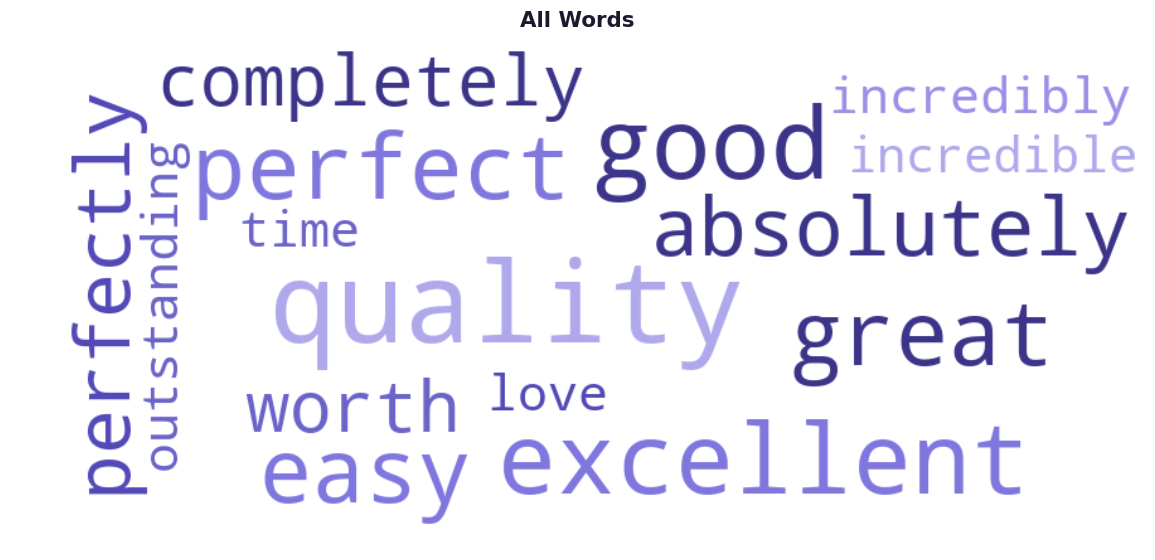
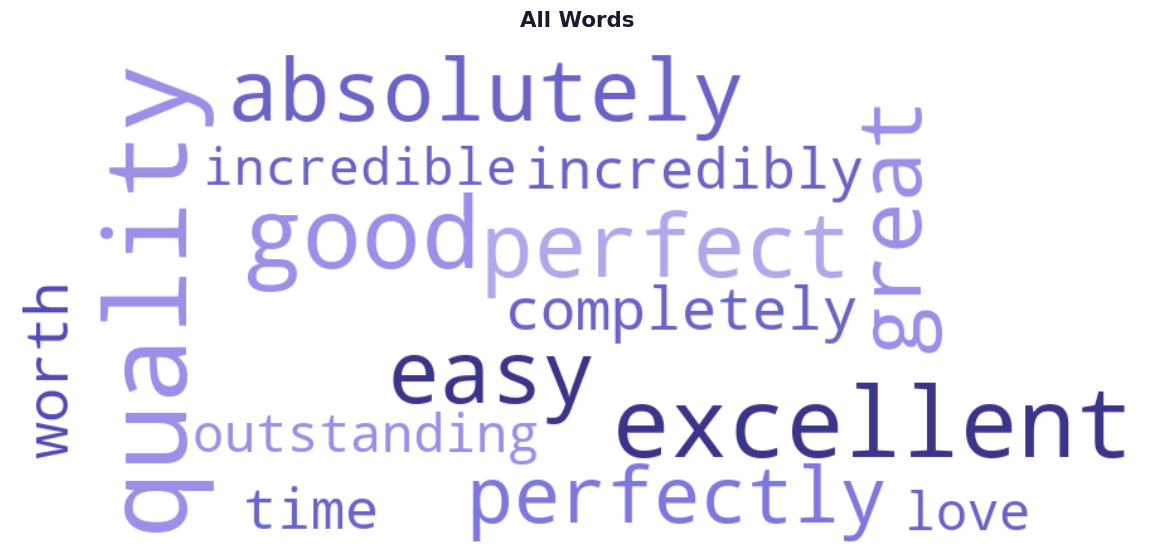
Add product reviews dataset with 100 entries across various categories

Changed region(s): [[0.0, 0.0911, 0.9974, 0.9714]]

diff --git a/templates/results.html b/templates/results.html
@@ -1029,7 +1029,11 @@ function bL(extra) {
 
 function plotFig(id, jsonStr, extra) {
   var el = document.getElementById(id);
-  if (!el || !jsonStr) return;
+  if (!el) return;
+  if (!jsonStr) {
+  el.innerHTML = '<div class="chart-placeholder"><i class="ti ti-help-circle"></i>No data for chart</div>';
+  return;
+}
   try {
     var fig = JSON.parse(jsonStr);
     var lay = bL(extra);

diff --git a/modules/dashboard.py b/modules/dashboard.py
@@ -313,5 +313,21 @@ def run_dashboard(df, sentiment_stats):
                 font=dict(size=13)),
         )
         charts["radar"] = fig_r.to_json()
+      # Add placeholder for missing charts
+    expected_charts = {
+
+        "distribution", "scatter", "boxplot",
+        "sentiment_bar", "sentiment_donut"
+        }
+    for chart_name in expected_charts:
+
+        if chart_name not in charts:
+
+            # Return empty figure instead of None
+            empty_fig = go.Figure().add_annotation(
+                text="No data available",
+                xref="paper", yref="paper",
+                x=0.5, y=0.5, showarrow=False)
+            charts[chart_name] = empty_fig.to_json()  
 
     return charts
